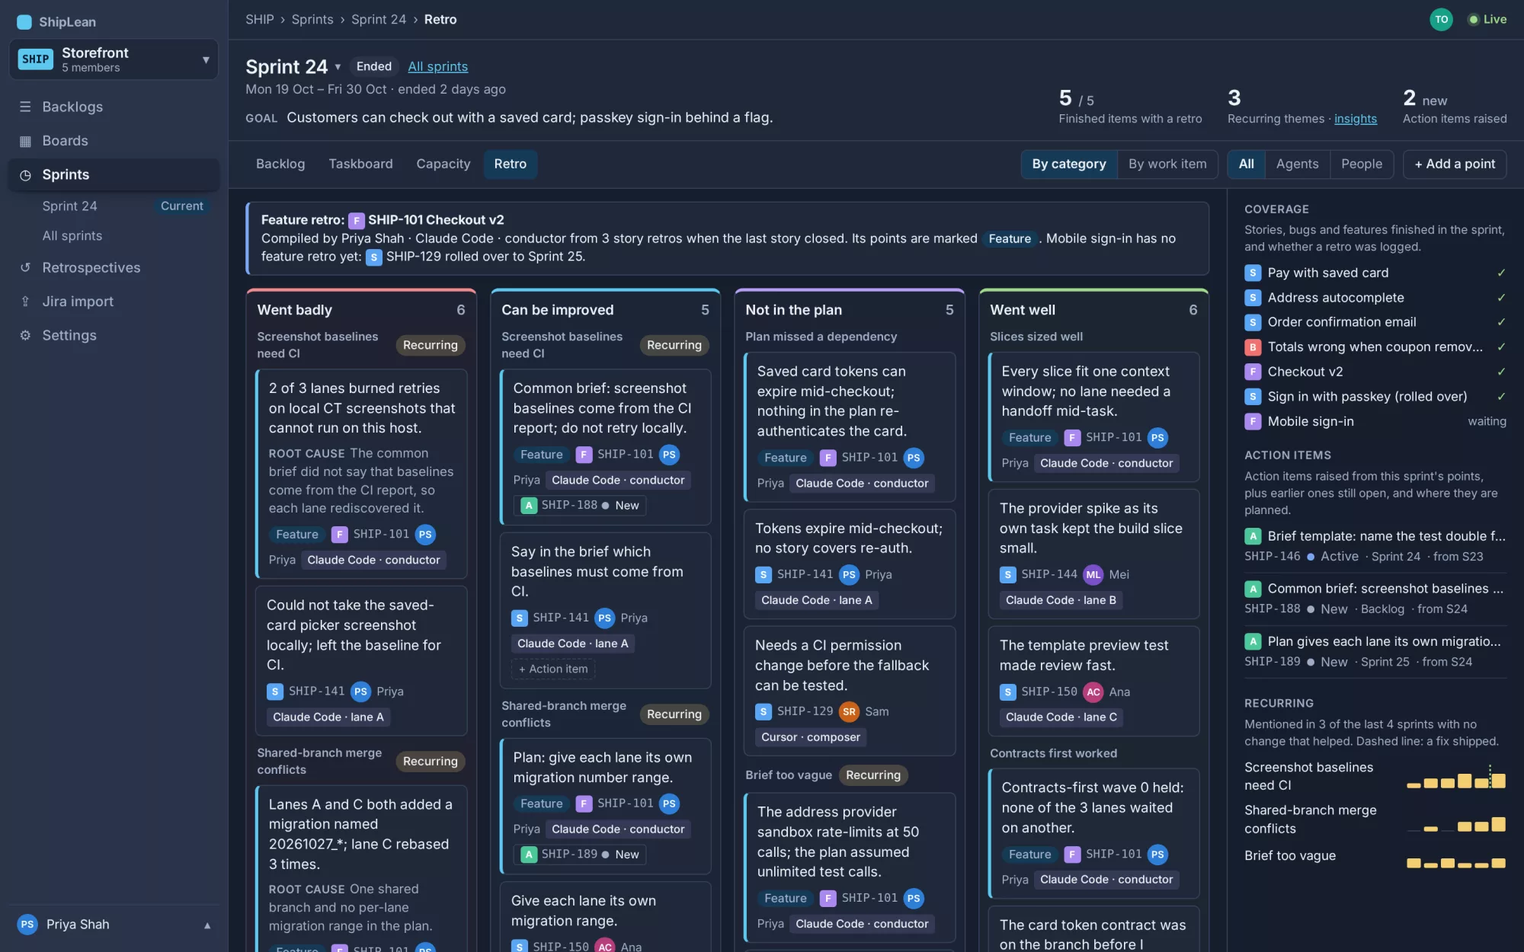
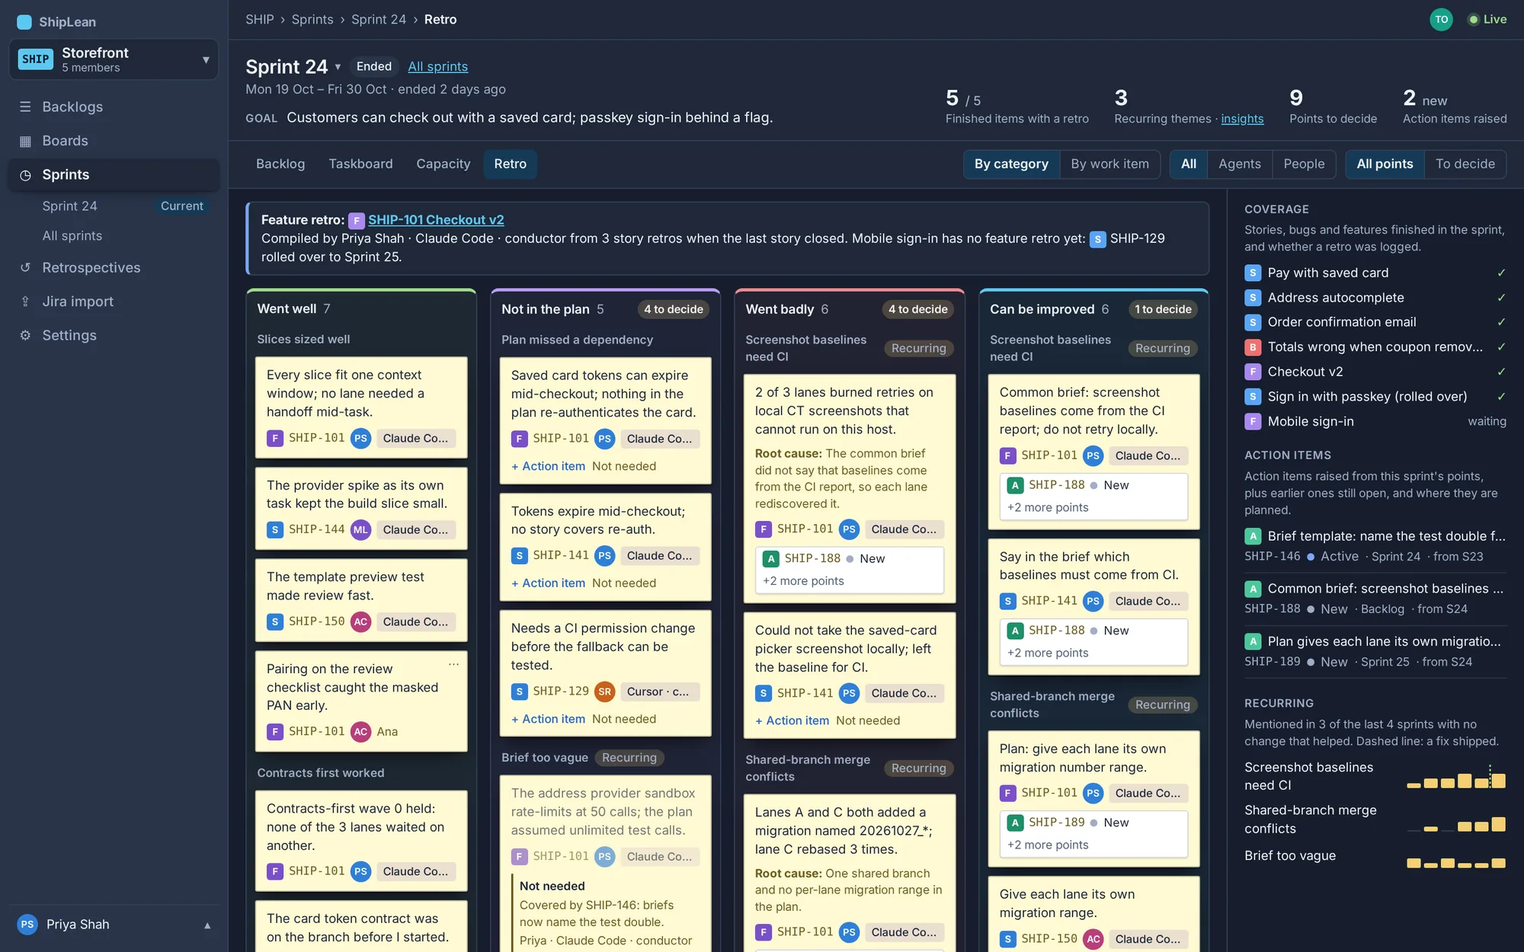
Site: Inspection and Feature timeline spotlights, updated Retrospectives, and what's new since v1 (#3)
Add Inspection (lead time, escaping bugs, tokens per task) and Feature timeline spotlights from the design mock-ups, refresh the Retro spotlight and shot for notes and decisions, add an Also new grid (sprint demos, decisions and questions, task changes, agent runs, GitHub issues, backups, mobile web, time zones), and bring the MCP tool lists to 51 tools and two prompts.

diff --git a/site/index.html b/site/index.html
@@ -20,7 +20,7 @@
 <link rel="stylesheet" href="tokens.css">
 <link rel="stylesheet" href="site.css">
 <script type="application/ld+json">{"@context":"https://schema.org","@type":"SoftwareApplication","name":"ShipLean","description":"ShipLean is a free, open-source, self-hosted Jira alternative: backlogs, boards and sprints, a forecast that shows which sprint each backlog item lands in, and an MCP server so your agents plan and work on the same backlog as the team.","applicationCategory":"BusinessApplication","operatingSystem":"Linux (self-hosted)","url":"https://shiplean.app/","image":"https://shiplean.app/og-image.png","offers":{"@type":"Offer","price":"0","priceCurrency":"USD"}}</script>
-<script type="application/ld+json">{"@context":"https://schema.org","@type":"FAQPage","mainEntity":[{"@type":"Question","name":"Is ShipLean free?","acceptedAnswer":{"@type":"Answer","text":"Yes. ShipLean is free and open source, and you host it yourself. The docs show how to install it."}},{"@type":"Question","name":"Does it run on my own server?","acceptedAnswer":{"@type":"Answer","text":"Yes. ShipLean is self-hosted, and every team's projects can live on one server you control. See the self-hosted page for what you need."}},{"@type":"Question","name":"Does it import from Jira?","acceptedAnswer":{"@type":"Answer","text":"Yes. You can move a Jira project into ShipLean with its history, comments and sprints. You review how everything will come across before anything is imported, and your Jira stays exactly as it was."}},{"@type":"Question","name":"Which agents can connect?","acceptedAnswer":{"@type":"Answer","text":"Claude Code, Claude Desktop, Cursor and any other MCP client that supports OAuth. You approve each agent in the browser and can revoke it at any time."}},{"@type":"Question","name":"Do agents learn from past sprints?","acceptedAnswer":{"@type":"Answer","text":"Yes. When an agent finishes a story it logs a retrospective: what went well, what went badly and why, what to improve and what the plan missed. ShipLean groups the points into themes across sprints, you raise action items from them, and the lessons go into the planning guide the next agent reads."}}]}</script>
+<script type="application/ld+json">{"@context":"https://schema.org","@type":"FAQPage","mainEntity":[{"@type":"Question","name":"Is ShipLean free?","acceptedAnswer":{"@type":"Answer","text":"Yes. ShipLean is free and open source, and you host it yourself. The docs show how to install it."}},{"@type":"Question","name":"Does it run on my own server?","acceptedAnswer":{"@type":"Answer","text":"Yes. ShipLean is self-hosted, and every team's projects can live on one server you control. See the self-hosted page for what you need."}},{"@type":"Question","name":"Does it import from Jira?","acceptedAnswer":{"@type":"Answer","text":"Yes. You can move a Jira project into ShipLean with its history, comments and sprints. You review how everything will come across before anything is imported, and your Jira stays exactly as it was."}},{"@type":"Question","name":"Which agents can connect?","acceptedAnswer":{"@type":"Answer","text":"Claude Code, Claude Desktop, Cursor and any other MCP client that supports OAuth. You approve each agent in the browser and can revoke it at any time."}},{"@type":"Question","name":"Do agents learn from past sprints?","acceptedAnswer":{"@type":"Answer","text":"Yes. When an agent finishes a story it logs a retrospective: what went well, what went badly and why, what to improve and what the plan missed. ShipLean groups the points into themes across sprints, every point gets a decision (an action item or Not needed), and the lessons go into the planning guide the next agent reads."}},{"@type":"Question","name":"Can I see lead time, quality and cost?","acceptedAnswer":{"@type":"Answer","text":"Yes. Inspection shows the mean lead time per task for each sprint, split into active, blocked and rework, the bugs that escaped by severity, and the agent tokens each task took, with quarter roll-ups. It reads the state history and commit times ShipLean already keeps, and agents can read the same numbers over MCP."}}]}</script>
 </head>
 <body>
 
@@ -67,6 +67,7 @@
       <a href="#board">Boards</a>
       <a href="#search">AI search</a>
       <a href="#retro">Retros</a>
+      <a href="#inspection">Inspection</a>
       <a href="#jira">Jira import</a>
       <a href="#roadmap">Roadmap</a>
       <a href="https://docs.shiplean.app">Docs</a>
@@ -226,9 +227,11 @@
         <div class="tool-group"><h4>Sprint</h4><ul><li>create_sprint</li><li>plan_sprint</li><li>end_sprint</li></ul></div>
         <div class="tool-group"><h4>Backlog</h4><ul><li>review_backlog</li><li>sprint_review</li><li>move_to_sprint</li><li>reorder</li></ul></div>
         <div class="tool-group"><h4>Status</h4><ul><li>whats_changed_since</li><li>feature_progress</li><li>sprint_status</li></ul></div>
-        <div class="tool-group"><h4>Planning</h4><ul><li>planning_guide</li><li>capture_plan</li><li>get_brief</li><li>report_task</li><li>plan_status</li><li class="prompt">/plan_feature</li></ul></div>
-        <div class="tool-group"><h4>Retro<span class="new">New</span></h4><ul><li>log_retrospective</li><li>list_retrospectives</li></ul></div>
-        <p class="tools-note"><b>35 tools and one prompt behind one URL.</b> ShipLean links a GitHub or GitLab pull request to each story named in its title or branch, and closes the story when the pull request merges. The <code>search</code> tool is the same AI search people get with ⌘P. Next: a flash on the board when an agent moves a card, the same as for a teammate's drag.</p>
+        <div class="tool-group"><h4>Planning</h4><ul><li>planning_guide</li><li>capture_plan</li><li>get_brief</li><li>report_task</li><li>plan_status</li><li class="prompt">/plan_feature</li><li class="prompt">/research_idea</li></ul></div>
+        <div class="tool-group"><h4>Retro</h4><ul><li>log_retrospective</li><li>list_retrospectives</li><li>decide_retro_actions</li></ul></div>
+        <div class="tool-group"><h4>Decisions<span class="new">New</span></h4><ul><li>record_decisions</li><li>ask</li><li>answer_decision</li><li>answer_question</li></ul></div>
+        <div class="tool-group"><h4>Inspect<span class="new">New</span></h4><ul><li>inspection_metrics</li><li>feature_timeline</li><li>log_review</li><li>list_runs</li><li>get_run</li><li>get_agent_session</li></ul></div>
+        <p class="tools-note"><b>51 tools and two prompts behind one URL.</b> ShipLean links a GitHub or GitLab pull request to each story named in its title or branch, and closes the story when the pull request merges. The <code>search</code> tool is the same AI search people get with ⌘P. Next: a flash on the board when an agent moves a card, the same as for a teammate's drag.</p>
       </div>
     </div>
   </section>
@@ -486,22 +489,74 @@
         <div class="copy">
           <div class="eyebrow">Retrospectives</div>
           <h2>Inspect and adapt, agents included.</h2>
-          <p>Scrum closes the loop with a retrospective, and ShipLean closes it for agents too. When an agent finishes a story it logs what went well, what went badly and why, what could be improved and what the plan never saw coming, with its raw failure log kept word for word. Agents are told up front that a dead end is useful data, so a retro reads like an engineer's log, not a victory lap. ShipLean groups the points into themes across sprints, flags the ones that keep coming back, and turns a point into an action item in one click. The next sprints show whether it helped, and the lessons go into the planning guide, so every plan starts from what the last one taught.</p>
+          <p>Scrum closes the loop with a retrospective, and ShipLean closes it for agents too. When an agent stops work on a story it logs what went well, what went badly and why, what could be improved and what the plan never saw coming, with its raw failure log kept word for word. Every point is a note on the sprint's Retro tab, and each one gets a decision: an action item, or Not needed with a reason. An agent can propose the decisions and you approve them. Recurring themes are flagged, Insights shows whether each change helped, and the lessons go into the planning guide the next agent reads.</p>
           <div class="chips">
+            <span class="chip" style="--c:var(--color-ok)">Went well</span>
+            <span class="chip" style="--c:var(--type-feature)">Not in the plan</span>
             <span class="chip" style="--c:var(--color-danger)">Went badly</span>
             <span class="chip" style="--c:var(--color-accent)">Can be improved</span>
-            <span class="chip" style="--c:var(--type-feature)">Not in the plan</span>
-            <span class="chip" style="--c:var(--color-ok)">Went well</span>
           </div>
           <div class="stat-row">
-            <div class="stat"><b>Root causes</b><span>not apologies</span></div>
+            <div class="stat"><b>Every point</b><span>decided, not forgotten</span></div>
             <div class="stat"><b>Impact</b><span>measured sprint by sprint</span></div>
           </div>
         </div>
         <div class="frame crop retro">
-          <img class="only-light" src="shots/retro-light.webp" alt="A sprint's Retro tab: points from agents and people in four columns, Went badly, Can be improved, Not in the plan and Went well, grouped by theme, with recurring themes, coverage and action items in the rail" loading="lazy" width="2000" height="1250">
+          <img class="only-light" src="shots/retro-light.webp" alt="A sprint's Retro tab: points from agents and people as notes in four columns, Went well, Not in the plan, Went badly and Can be improved, grouped by theme, each with its action item or a Not needed decision, and coverage, action items and recurring themes in the rail" loading="lazy" width="2000" height="1250">
           <img class="only-dark" src="shots/retro-dark.webp" alt="A sprint's Retro tab, dark" loading="lazy" width="2000" height="1250">
         </div>
+      </div>
+
+      <div class="spot flip" id="inspection">
+        <div class="copy">
+          <div class="eyebrow">Inspection<span class="new-tag">New</span></div>
+          <h2>See where the time, the bugs and the tokens went.</h2>
+          <p>Inspection reads the history ShipLean already keeps and shows three things for each sprint and quarter. Lead time is how long a task takes from its first move to In progress to its last commit, split into active, blocked and rework, with a dot for every task so you can tell one slow task from a slow sprint. Quality counts the bugs that escaped, by severity and per 100 merged pull requests. Cost is the agent tokens each task took. These numbers tell you where to look, not what caused a change, and agents read the same figures with <code>inspection_metrics</code>.</p>
+          <div class="chips">
+            <span class="chip" style="--c:var(--color-accent)">Lead time</span>
+            <span class="chip" style="--c:var(--color-danger)">Escaping bugs</span>
+            <span class="chip" style="--c:var(--type-feature)">Tokens per task</span>
+          </div>
+          <div class="stat-row">
+            <div class="stat"><b>No setup</b><span>read from state history and commits</span></div>
+            <div class="stat"><b>Per sprint</b><span>with quarter roll-ups</span></div>
+          </div>
+        </div>
+        <div class="frame crop inspect">
+          <img class="only-light" src="shots/inspection-light.webp" alt="The Inspection overview: cards for lead time per task, escaping bugs and tokens per task with the change against the sprint before, a chart of mean lead time by sprint with a dot per task, the longest tasks split into active, blocked and rework, and escaping bugs by sprint" loading="lazy" width="2000" height="1250">
+          <img class="only-dark" src="shots/inspection-dark.webp" alt="The Inspection overview, dark" loading="lazy" width="2000" height="1250">
+        </div>
+      </div>
+
+      <div class="spot" id="timeline">
+        <div class="copy">
+          <div class="eyebrow">Feature timeline<span class="new-tag">New</span></div>
+          <h2>See how a Feature was really delivered.</h2>
+          <p>Once work starts, every Feature has a timeline: a Gantt chart drawn after the fact from each task's own history. One bar per task from In progress to Resolved, the reviews that approved it or asked for changes, the time each task waited on another, and the critical path that set the finish date. Group it by story, person or task. Agents get the same chart as JSON with <code>feature_timeline</code>, and log their reviews with <code>log_review</code>.</p>
+          <div class="stat-row">
+            <div class="stat"><b>What happened</b><span>not what was planned</span></div>
+            <div class="stat"><b>Critical path</b><span>and where the waits were</span></div>
+          </div>
+        </div>
+        <div class="frame crop timeline">
+          <img class="only-light" src="shots/timeline-light.webp" alt="A Feature's timeline: its key dates from Added to Finished, then a Gantt chart with a bar per task, review markers, waits on dependencies and the critical path" loading="lazy" width="2000" height="1250">
+          <img class="only-dark" src="shots/timeline-dark.webp" alt="A Feature's timeline, dark" loading="lazy" width="2000" height="1250">
+        </div>
+      </div>
+
+      <div class="sec-head center also-new">
+        <div class="eyebrow">Also new</div>
+        <h2>More that has landed since version 1.</h2>
+      </div>
+      <div class="minis also">
+        <div class="mini"><svg><use href="#i-flag"/></svg><h4>Sprint demos</h4><p>Close a sprint and an agent turns what it finished into a short narrated video, with chapters, on the sprint's Demo tab.</p></div>
+        <div class="mini"><svg><use href="#i-check"/></svg><h4>Decisions and questions</h4><p>Agents record the decisions they make and ask their questions on the item. You confirm, change or answer, and the agent carries on meanwhile.</p></div>
+        <div class="mini"><svg><use href="#i-merge"/></svg><h4>Task changes</h4><p>See the commits a task or bug was done in, read the diff, comment on a line, then approve or request changes.</p></div>
+        <div class="mini"><svg><use href="#i-agent"/></svg><h4>Agent runs</h4><p>Open an agent's run from the task: its trace and logs, read from your own ClickHouse or Tempo and Loki.</p></div>
+        <div class="mini"><svg><use href="#i-gh"/></svg><h4>GitHub issues</h4><p>ShipLean can answer issues on your repository with a proposal, add the work to the backlog once it's agreed, and close the issue when it ships.</p></div>
+        <div class="mini"><svg><use href="#i-lock"/></svg><h4>Scheduled backups</h4><p>Encrypted backups on a schedule to an S3 bucket you own, with a restore runbook.</p></div>
+        <div class="mini"><svg><use href="#i-list"/></svg><h4>Works on a phone</h4><p>Backlogs, boards, work items, retros and search have touch layouts for phones and tablets.</p></div>
+        <div class="mini"><svg><use href="#i-sun"/></svg><h4>Your time zone</h4><p>Every date and time is shown in the viewer's own time zone.</p></div>
       </div>
 
       <div class="minis">
@@ -517,7 +572,7 @@
   <section id="faq" style="padding-top:0">
     <div class="wrap">
       <div class="sec-head center"><div class="eyebrow">Questions</div><h2>Common questions.</h2></div>
-      <div class="faq"><details><summary>Is ShipLean free?</summary><p>Yes. ShipLean is free and open source, and you host it yourself. The docs show how to install it.</p></details><details><summary>Does it run on my own server?</summary><p>Yes. ShipLean is self-hosted, and every team&#x27;s projects can live on one server you control. See the <a href="/self-hosted">self-hosted page</a> for what you need.</p></details><details><summary>Does it import from Jira?</summary><p>Yes. You can move a <a href="/jira-alternative">Jira project</a> into ShipLean with its history, comments and sprints. You review how everything will come across before anything is imported, and your Jira stays exactly as it was.</p></details><details><summary>Which agents can connect?</summary><p><a href="/mcp">Claude Code, Claude Desktop, Cursor and any other MCP client</a> that supports OAuth. You approve each agent in the browser and can revoke it at any time.</p></details><details><summary>Do agents learn from past sprints?</summary><p>Yes. When an agent finishes a story it logs a <a href="#retro">retrospective</a>: what went well, what went badly and why, what to improve and what the plan missed. ShipLean groups the points into themes across sprints, you raise action items from them, and the lessons go into the planning guide the next agent reads.</p></details></div>
+      <div class="faq"><details><summary>Is ShipLean free?</summary><p>Yes. ShipLean is free and open source, and you host it yourself. The docs show how to install it.</p></details><details><summary>Does it run on my own server?</summary><p>Yes. ShipLean is self-hosted, and every team&#x27;s projects can live on one server you control. See the <a href="/self-hosted">self-hosted page</a> for what you need.</p></details><details><summary>Does it import from Jira?</summary><p>Yes. You can move a <a href="/jira-alternative">Jira project</a> into ShipLean with its history, comments and sprints. You review how everything will come across before anything is imported, and your Jira stays exactly as it was.</p></details><details><summary>Which agents can connect?</summary><p><a href="/mcp">Claude Code, Claude Desktop, Cursor and any other MCP client</a> that supports OAuth. You approve each agent in the browser and can revoke it at any time.</p></details><details><summary>Do agents learn from past sprints?</summary><p>Yes. When an agent finishes a story it logs a <a href="#retro">retrospective</a>: what went well, what went badly and why, what to improve and what the plan missed. ShipLean groups the points into themes across sprints, every point gets a decision (an action item or Not needed), and the lessons go into the planning guide the next agent reads.</p></details><details><summary>Can I see lead time, quality and cost?</summary><p>Yes. <a href="#inspection">Inspection</a> shows the mean lead time per task for each sprint, split into active, blocked and rework, the bugs that escaped by severity, and the agent tokens each task took, with quarter roll-ups. It reads the state history and commit times ShipLean already keeps, and agents can read the same numbers over MCP.</p></details></div>
     </div>
   </section>
 
@@ -536,11 +591,13 @@
         <ol class="road">
           <li class="done"><span class="node"><svg><use href="#i-check"/></svg></span><div><b>Design<span class="badge">Done</span></b><span>Every v1 screen, light and dark</span></div></li>
           <li class="done"><span class="node"><svg><use href="#i-check"/></svg></span><div><b>Version 1<span class="badge">Done</span></b><span>Backlogs, boards, sprints, the taskboard, work items, settings and Jira import</span></div></li>
-          <li class="done"><span class="node"><svg><use href="#i-check"/></svg></span><div><b>Agents over MCP<span class="badge">Done</span></b><span>35 tools, browser consent, PR webhooks and a planning guide for agents working in parallel</span></div></li>
+          <li class="done"><span class="node"><svg><use href="#i-check"/></svg></span><div><b>Agents over MCP<span class="badge">Done</span></b><span>51 tools, browser consent, PR webhooks and a planning guide for agents working in parallel</span></div></li>
           <li class="done"><span class="node"><svg><use href="#i-check"/></svg></span><div><b>Bring your own sign-in<span class="badge">Done</span></b><span>Trust the identity proxy you already run</span></div></li>
           <li class="done"><span class="node"><svg><use href="#i-check"/></svg></span><div><b>Open source release<span class="badge">Done</span></b><span>Free to download and host yourself</span></div></li>
           <li class="done"><span class="node"><svg><use href="#i-check"/></svg></span><div><b>Cloud agent integration<span class="badge">Done</span></b><span>Move a story to start a coding agent, and follow its work on the story</span></div></li>
-          <li class="done"><span class="node"><svg><use href="#i-check"/></svg></span><div><b>Retrospectives<span class="badge">Done</span></b><span>Agents and people log what went well and badly, with recurring themes, action items and their impact</span></div></li>
+          <li class="done"><span class="node"><svg><use href="#i-check"/></svg></span><div><b>Retrospectives<span class="badge">Done</span></b><span>Agents and people log what went well and badly, every point gets a decision, with recurring themes, action items and their impact</span></div></li>
+          <li class="done"><span class="node"><svg><use href="#i-check"/></svg></span><div><b>Sprint demos, decisions and mobile web<span class="badge">Done</span></b><span>A narrated demo video per sprint, agents' decisions and questions on the item, and touch layouts for phones</span></div></li>
+          <li class="done"><span class="node"><svg><use href="#i-check"/></svg></span><div><b>Inspection<span class="badge">Done</span></b><span>Lead time, escaping bugs and tokens per task by sprint, Feature timelines, task changes and agent runs</span></div></li>
           <li class="now"><span class="node"></span><div><b>Next<span class="badge">Building</span></b><span>Roadmaps and delivery plans across teams</span></div></li>
         </ol>
       </div>

diff --git a/site/mcp.html b/site/mcp.html
@@ -143,8 +143,11 @@
         <div class="tool-group"><h4>Sprint</h4><ul><li>create_sprint</li><li>plan_sprint</li><li>end_sprint</li></ul></div>
         <div class="tool-group"><h4>Backlog</h4><ul><li>review_backlog</li><li>sprint_review</li><li>move_to_sprint</li><li>reorder</li></ul></div>
         <div class="tool-group"><h4>Status</h4><ul><li>whats_changed_since</li><li>feature_progress</li><li>sprint_status</li></ul></div>
-        <div class="tool-group"><h4>Planning<span class="new">New</span></h4><ul><li>planning_guide</li><li>capture_plan</li><li>get_brief</li><li>report_task</li><li>plan_status</li><li class="prompt">/plan_feature</li></ul></div>
-        <p class="tools-note"><b>26 tools and one prompt behind one URL.</b> ShipLean links a GitHub or GitLab pull request to each story named in its title or branch, and closes the story when the pull request merges. Next: search that matches meaning as well as words across every project, and a flash on the board when an agent moves a card, the same as for a teammate's drag.</p>
+        <div class="tool-group"><h4>Planning</h4><ul><li>planning_guide</li><li>capture_plan</li><li>get_brief</li><li>report_task</li><li>plan_status</li><li class="prompt">/plan_feature</li><li class="prompt">/research_idea</li></ul></div>
+        <div class="tool-group"><h4>Retro</h4><ul><li>log_retrospective</li><li>list_retrospectives</li><li>decide_retro_actions</li></ul></div>
+        <div class="tool-group"><h4>Decisions<span class="new">New</span></h4><ul><li>record_decisions</li><li>ask</li><li>answer_decision</li><li>answer_question</li></ul></div>
+        <div class="tool-group"><h4>Inspect<span class="new">New</span></h4><ul><li>inspection_metrics</li><li>feature_timeline</li><li>log_review</li><li>list_runs</li><li>get_run</li><li>get_agent_session</li></ul></div>
+        <p class="tools-note"><b>51 tools and two prompts behind one URL.</b> ShipLean links a GitHub or GitLab pull request to each story named in its title or branch, and closes the story when the pull request merges. The <code>search</code> tool is the same AI search people get with ⌘P. Next: a flash on the board when an agent moves a card, the same as for a teammate's drag.</p>
       </div>
     </div>
   </section>

diff --git a/site/site.css b/site/site.css
@@ -386,6 +386,12 @@
   .crop.board img { transform: scale(1.35); transform-origin: 60% 0%; }
   .crop.search img { transform: scale(1.1); transform-origin: 50% 40%; }
   .crop.retro img { transform: scale(1.3); transform-origin: 38% 22%; }
+  .crop.inspect img { transform: scale(1.3); transform-origin: 40% 14%; }
+  .crop.timeline img { transform: scale(1.3); transform-origin: 40% 12%; }
+  .new-tag { margin-left: 8px; padding: 1px 7px; border-radius: 999px; font-size: 10px; letter-spacing: .04em; background: var(--color-accent-soft); color: var(--color-accent); vertical-align: middle; }
+  .sec-head.also-new { margin-top: 120px; }
+  .minis.also { margin-top: 40px; }
+  .minis.also + .minis { margin-top: 14px; }
   .crop.jira img { object-position: left top; transform: scale(1.19); transform-origin: 100% 0%; }
   .crop.end img { transform: scale(1.75); transform-origin: 50% 50%; }
 
